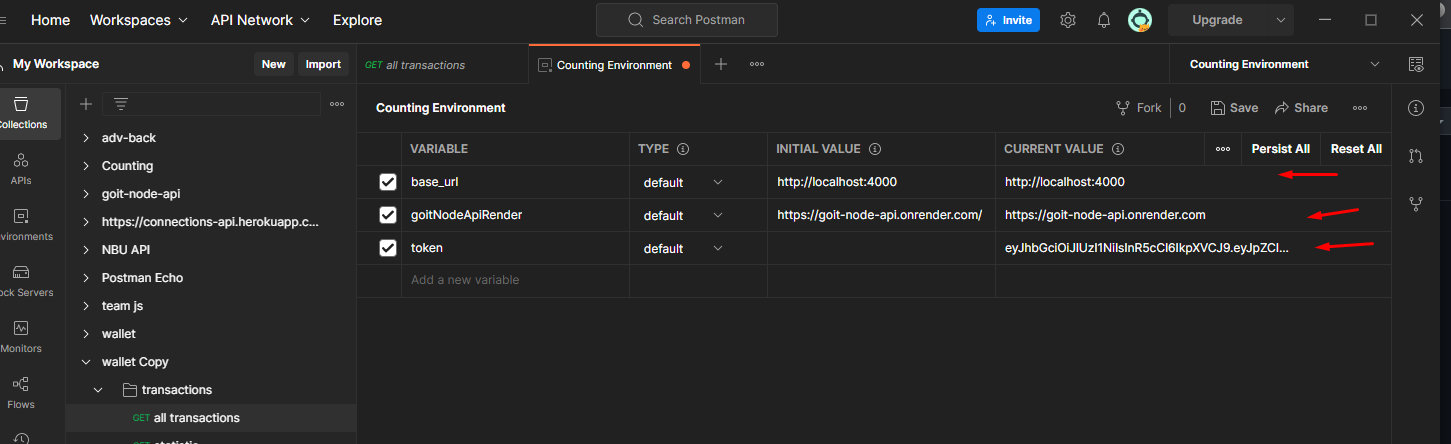
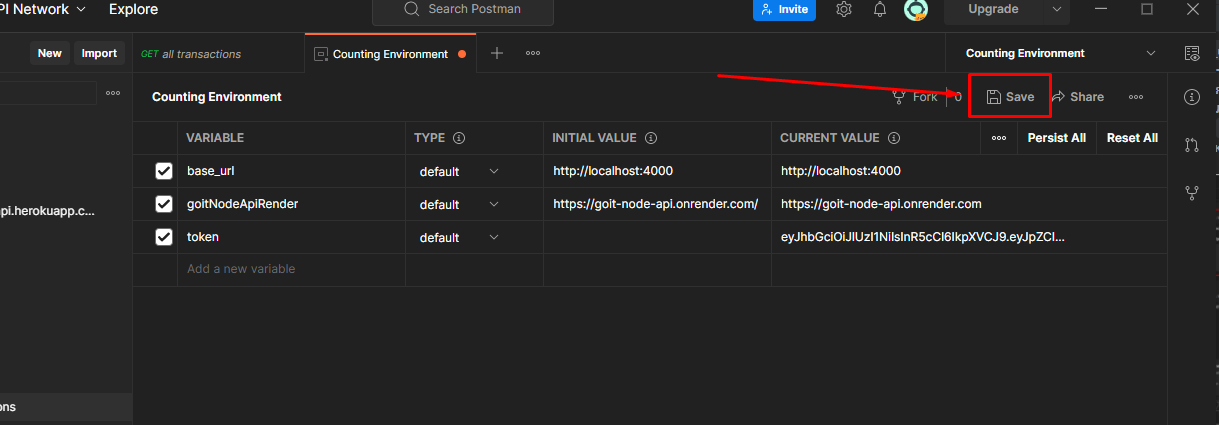
fix: readme

diff --git a/README.postman.md b/README.postman.md
@@ -18,4 +18,6 @@
 - #### Заносимо першу і третю змінні (`base_url` & `token`), які використовує postman, (друга змінна - по бажанню). Якщо потрібно перемикатись (це більше для розробника), тоді додаємо другу змінну, щоб було посилання завжди під рукою. Програма використовує саме `current value`. Додавати змінну потрібно через кнопку `edit`:
   <img src="./assets/postman/Screenshot_6.png" alt="screen">
 - #### Приклад доданих змінних `base_url` & `token` та змінна із вільною назвою. Сервіс - `https://goit-wallet-back.onrender.com`:
+  <img src="assets/postman/Screenshot_7.png" alt="screen">
+- #### Зберігаємо змінені змінні за допомогою кнопки `save`:
   <img src="assets/postman/Screenshot_8.png" alt="screen">
